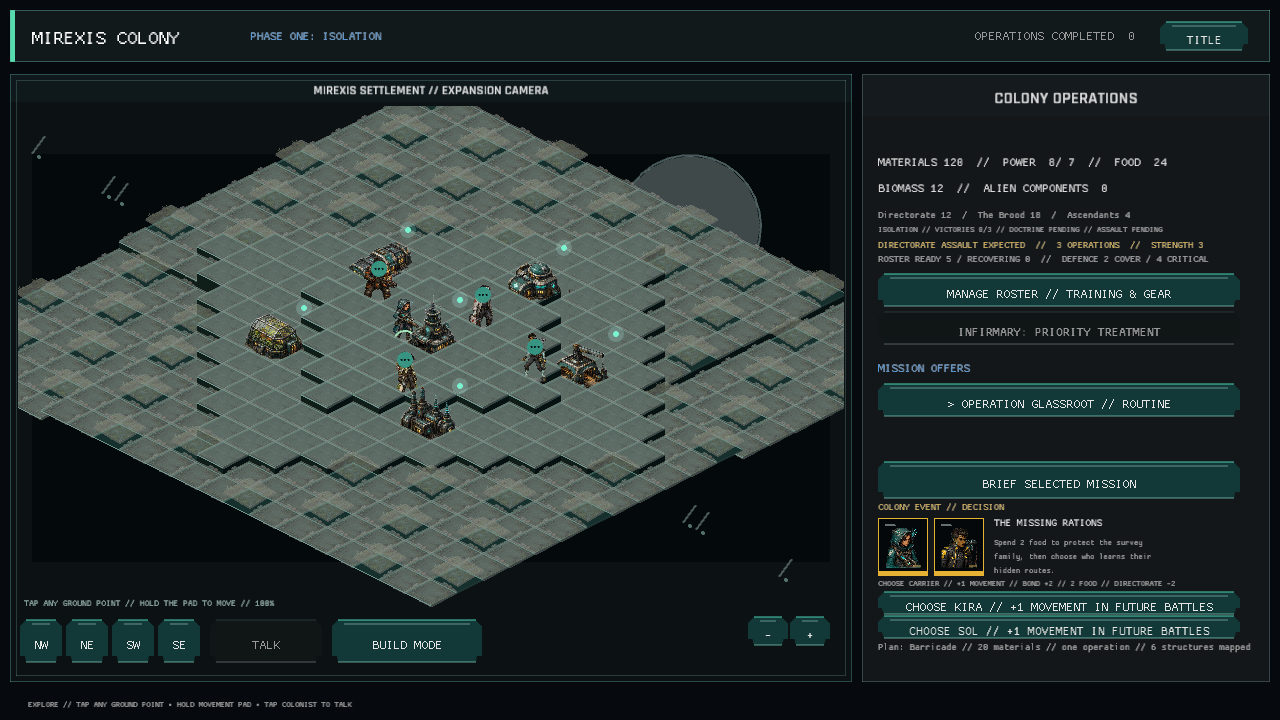
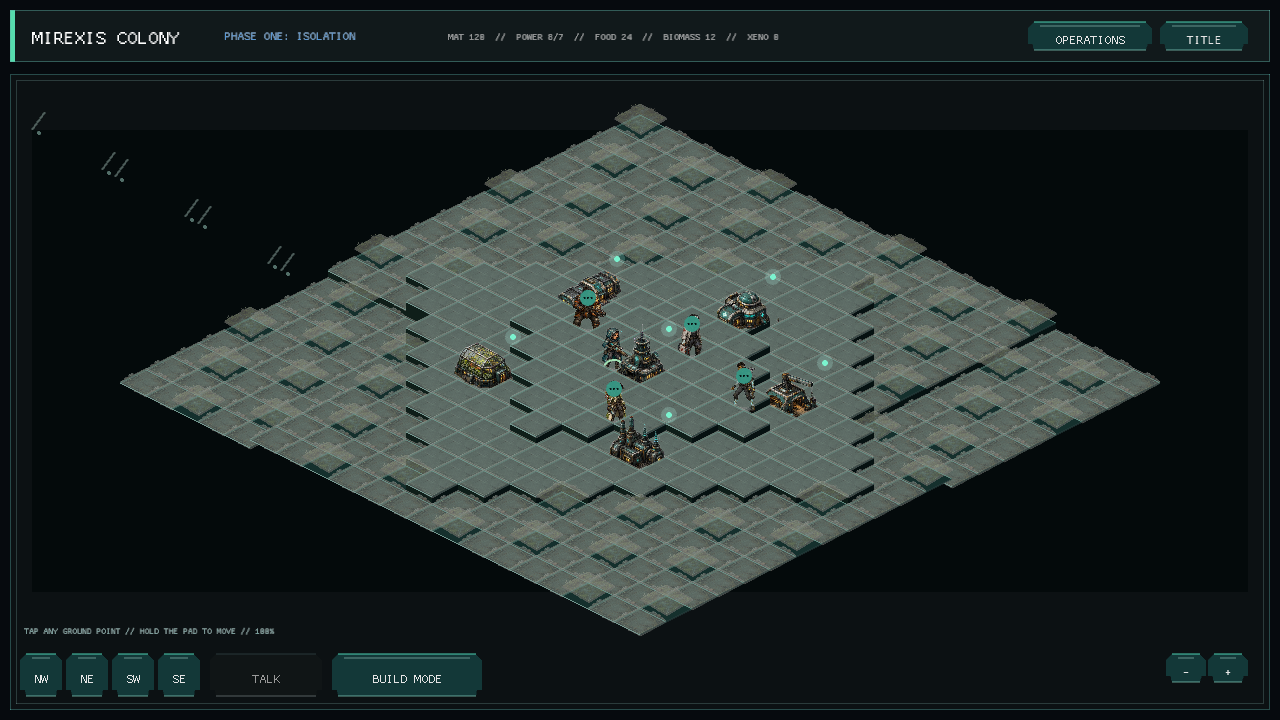
The settlement claims the whole horizon between operations (responsive full-screen colony HUD)
The colony camera was confined to a narrow 842-pixel panel by an always-visible operations column, so larger displays magnified a cramped composition instead of giving the settlement room. Make the strategic column a touch-visible drawer and expand the default colony viewport to 1260 x 560 logical pixels, with movement, build, and zoom controls anchored along the lower edge.

Keep resources in the slim colony header, restore the protected narrow viewport whenever the drawer is open, and reset the transient drawer on new and loaded colonies. Layout regressions cover both drawer widths and header control separation, while the refreshed canonical capture records the new default composition.

Verified with cargo test (226 unit tests plus asset-registry and source-size checks), direct colony capture inspection, and .\\publish.ps1 (Windows, WebGL, packaging, and preview deployment passed).

diff --git a/src/colony_map_ui.rs b/src/colony_map_ui.rs
@@ -7,7 +7,7 @@ use crate::ui::UiAction;
 use crate::visual_assets::VisualCatalog;
 use macroquad::prelude::*;
 use macroquad_toolkit::assets::AssetManager;
-use macroquad_toolkit::prelude::{dark, draw_surface_with_title, SurfaceStyle, TextStyle};
+use macroquad_toolkit::prelude::{draw_surface, SurfaceStyle};
 use macroquad_toolkit::ui::VirtualUi;
 
 pub(crate) const COLONY_HALF_WIDTH: f32 = 26.0;
@@ -26,24 +26,17 @@ pub(crate) fn draw(
     camera: &mut WorldCamera,
     explorer: &mut crate::colony_exploration::ColonyExplorer,
     mouse: Vec2,
+    operations_open: bool,
     actions: &mut Vec<UiAction>,
 ) -> bool {
-    let panel = Rect::new(10.0, 74.0, 842.0, 608.0);
-    draw_surface_with_title(
+    let panel = panel_bounds(operations_open);
+    draw_surface(
         panel,
-        Some("MIREXIS SETTLEMENT // EXPANSION CAMERA"),
         &SurfaceStyle::new(Color::new(0.026, 0.047, 0.053, 0.98))
             .with_border(1.0, Color::new(0.20, 0.50, 0.48, 0.9))
-            .with_inner_border(6.0, 1.0, Color::new(0.12, 0.28, 0.27, 0.7))
-            .with_header(28.0, Color::new(0.06, 0.10, 0.11, 1.0)),
-        TextStyle::new(13.0, dark::TEXT),
+            .with_inner_border(6.0, 1.0, Color::new(0.12, 0.28, 0.27, 0.7)),
     );
-    let viewport = Rect::new(
-        panel.x + 8.0,
-        panel.y + 32.0,
-        panel.w - 16.0,
-        panel.h - 102.0,
-    );
+    let viewport = viewport_bounds(panel);
     let camera_control_clicked = crate::camera_controls::draw_zoom(
         camera,
         viewport,
@@ -148,7 +141,20 @@ pub(crate) fn draw(
 }
 
 fn camera_controls_origin(panel: Rect) -> Vec2 {
-    vec2(panel.right() - 104.0, panel.bottom() - 65.0)
+    vec2(panel.right() - 104.0, panel.bottom() - 56.0)
+}
+
+fn panel_bounds(operations_open: bool) -> Rect {
+    Rect::new(
+        10.0,
+        74.0,
+        if operations_open { 842.0 } else { 1260.0 },
+        636.0,
+    )
+}
+
+fn viewport_bounds(panel: Rect) -> Rect {
+    Rect::new(panel.x + 8.0, panel.y + 8.0, panel.w - 16.0, panel.h - 76.0)
 }
 
 fn draw_ending_manifestation(

diff --git a/src/colony_header_ui.rs b/src/colony_header_ui.rs
@@ -13,7 +13,16 @@ fn title_bounds() -> Rect {
     Rect::new(1160.0, 22.0, 88.0, 28.0)
 }
 
-pub(crate) fn draw(campaign: &CampaignState, mouse: Vec2, actions: &mut Vec<UiAction>) {
+fn operations_bounds() -> Rect {
+    Rect::new(1028.0, 22.0, 124.0, 28.0)
+}
+
+pub(crate) fn draw(
+    campaign: &CampaignState,
+    mouse: Vec2,
+    operations_open: &mut bool,
+    actions: &mut Vec<UiAction>,
+) {
     draw_surface(
         Rect::new(10.0, 10.0, LOGICAL_WIDTH - 20.0, 52.0),
         &SurfaceStyle::new(Color::new(0.045, 0.075, 0.085, 0.98))
@@ -28,16 +37,37 @@ pub(crate) fn draw(campaign: &CampaignState, mouse: Vec2, actions: &mut Vec<UiAc
     );
     text(
         &campaign.strategy.phase_name,
-        250.0,
+        224.0,
         40.0,
         TextStyle::new(15.0, dark::ACCENT).params(),
     );
+    let resources = &campaign.colony.resources;
     text(
-        &format!("OPERATIONS COMPLETED  {}", campaign.operations_completed),
-        974.0,
+        &format!(
+            "MAT {}  //  POWER {}/{}  //  FOOD {}  //  BIOMASS {}  //  XENO {}",
+            resources.materials,
+            campaign.colony.power_supply(),
+            campaign.colony.power_demand(),
+            resources.food,
+            resources.biomass,
+            resources.alien_components
+        ),
+        448.0,
         40.0,
-        TextStyle::new(16.0, dark::TEXT_DIM).params(),
+        TextStyle::new(12.0, dark::TEXT_DIM).params(),
     );
+    if button(
+        operations_bounds(),
+        if *operations_open {
+            "CLOSE"
+        } else {
+            "OPERATIONS"
+        },
+        true,
+        mouse,
+    ) {
+        *operations_open = !*operations_open;
+    }
     if button(title_bounds(), "TITLE", true, mouse) {
         actions.push(UiAction::ReturnToTitle);
     }

diff --git a/src/colony_map_ui/controls.rs b/src/colony_map_ui/controls.rs
@@ -30,7 +30,7 @@ pub(super) fn draw_build_controls(
     for (index, kind) in kinds.into_iter().enumerate() {
         let selected = campaign.colony.planned_construction == kind;
         if button(
-            Rect::new(20.0 + index as f32 * 170.0, 620.0, 164.0, 42.0),
+            Rect::new(20.0 + index as f32 * 170.0, 654.0, 164.0, 42.0),
             &format!(
                 "{}{} // {} MAT",
                 if selected { "> " } else { "" },
@@ -54,7 +54,7 @@ pub(super) fn draw_exploration_controls(
     explorer.set_touch_direction(Vec2::ZERO);
     if explorer.build_mode() {
         if button(
-            Rect::new(540.0, 620.0, 196.0, 42.0),
+            Rect::new(540.0, 654.0, 196.0, 42.0),
             "RETURN TO EXPLORE",
             true,
             mouse,
@@ -73,7 +73,7 @@ pub(super) fn draw_exploration_controls(
     .into_iter()
     .enumerate()
     {
-        let rect = Rect::new(20.0 + index as f32 * 46.0, 620.0, 42.0, 42.0);
+        let rect = Rect::new(20.0 + index as f32 * 46.0, 654.0, 42.0, 42.0);
         button(rect, label, true, mouse);
         if rect.contains(mouse) && is_mouse_button_down(MouseButton::Left) {
             movement += direction;
@@ -81,7 +81,7 @@ pub(super) fn draw_exploration_controls(
     }
     explorer.set_touch_direction(movement.normalize_or_zero());
     if button(
-        Rect::new(210.0, 620.0, 112.0, 42.0),
+        Rect::new(210.0, 654.0, 112.0, 42.0),
         "TALK",
         explorer.can_talk(campaign),
         mouse,
@@ -89,7 +89,7 @@ pub(super) fn draw_exploration_controls(
         explorer.interact(campaign);
     }
     if button(
-        Rect::new(332.0, 620.0, 150.0, 42.0),
+        Rect::new(332.0, 654.0, 150.0, 42.0),
         "BUILD MODE",
         true,
         mouse,

diff --git a/src/game.rs b/src/game.rs
@@ -80,6 +80,7 @@ pub struct Game {
     tactical_camera: WorldCamera,
     colony_camera: WorldCamera,
     colony_explorer: crate::colony_exploration::ColonyExplorer,
+    colony_operations_open: bool,
 }
 
 impl Game {
@@ -153,6 +154,7 @@ impl Game {
             tactical_camera,
             colony_camera,
             colony_explorer: crate::colony_exploration::ColonyExplorer::default(),
+            colony_operations_open: false,
         }
     }
 
@@ -202,6 +204,7 @@ impl Game {
                 &virtual_ui,
                 &mut self.colony_camera,
                 &mut self.colony_explorer,
+                &mut self.colony_operations_open,
             ),
             AppState::Roster => crate::roster_ui::draw_roster(
                 &self.campaign,
@@ -292,6 +295,7 @@ impl Game {
                     .materialize_selected(&self.data, &self.campaign.colony);
                 self.colony_camera = WorldCamera::colony_start(crate::colony::SETTLEMENT_CENTER);
                 self.colony_explorer.reset();
+                self.colony_operations_open = false;
                 self.state = AppState::Colony;
                 self.last_outcome = None;
                 self.autosave_campaign_only("New colony autosaved");

diff --git a/src/colony_ui.rs b/src/colony_ui.rs
@@ -26,6 +26,7 @@ pub fn draw_colony(
     ui: &VirtualUi,
     camera: &mut crate::grid_ui::WorldCamera,
     explorer: &mut crate::colony_exploration::ColonyExplorer,
+    operations_open: &mut bool,
 ) -> Vec<UiAction> {
     let mut actions = Vec::new();
     let mouse = crate::ui::pointer_position(ui);
@@ -44,16 +45,13 @@ pub fn draw_colony(
         camera,
         explorer,
         mouse,
+        *operations_open,
         &mut actions,
     );
-    crate::colony_header_ui::draw(campaign, mouse, &mut actions);
-    draw_operations(campaign, data, assets, visuals, mouse, &mut actions);
-    draw_ui_text_ex(
-        "EXPLORE // TAP ANY GROUND POINT · HOLD MOVEMENT PAD · TAP COLONIST TO TALK",
-        28.0,
-        707.0,
-        TextStyle::new(10.0, dark::TEXT_DIM).params(),
-    );
+    crate::colony_header_ui::draw(campaign, mouse, operations_open, &mut actions);
+    if *operations_open {
+        draw_operations(campaign, data, assets, visuals, mouse, &mut actions);
+    }
     crate::ui::suppress_map_release_actions(&mut actions, suppress_actions);
     actions
 }

diff --git a/src/colony_map_ui/tests.rs b/src/colony_map_ui/tests.rs
@@ -249,14 +249,18 @@ fn initial_camera_frames_the_centered_settlement_without_fitting_the_colony() {
 
 #[test]
 fn visible_camera_controls_stay_below_the_interactive_colony_viewport() {
-    let panel = Rect::new(10.0, 74.0, 900.0, 608.0);
-    let viewport = Rect::new(
-        panel.x + 8.0,
-        panel.y + 32.0,
-        panel.w - 16.0,
-        panel.h - 102.0,
-    );
+    let panel = panel_bounds(false);
+    let viewport = viewport_bounds(panel);
     let origin = camera_controls_origin(panel);
     assert!(origin.y >= viewport.bottom());
     assert!(origin.y + 28.0 <= panel.bottom());
+}
+
+#[test]
+fn collapsed_operations_gives_the_settlement_the_full_screen_width() {
+    let collapsed = panel_bounds(false);
+    let open = panel_bounds(true);
+    assert_eq!(collapsed.right(), 1270.0);
+    assert_eq!(open.right(), 852.0);
+    assert!(viewport_bounds(collapsed).w > viewport_bounds(open).w + 400.0);
 }

diff --git a/src/colony_header_ui/tests.rs b/src/colony_header_ui/tests.rs
@@ -13,3 +13,11 @@ fn title_recovery_control_is_visible_inside_the_colony_header() {
         "title control overlaps campaign identity"
     );
 }
+
+#[test]
+fn operations_drawer_control_sits_beside_title_without_overlap() {
+    let operations = operations_bounds();
+    let title = title_bounds();
+    assert!(operations.right() <= title.x);
+    assert!(operations.y >= 10.0 && operations.bottom() <= 62.0);
+}

diff --git a/src/game/persistence_io.rs b/src/game/persistence_io.rs
@@ -100,6 +100,7 @@ impl Game {
                 self.colony_camera =
                     crate::grid_ui::WorldCamera::colony_start(crate::colony::SETTLEMENT_CENTER);
                 self.colony_explorer.reset();
+                self.colony_operations_open = false;
                 self.last_outcome = None;
                 self.notifications.success("Tactical state restored");
             }
